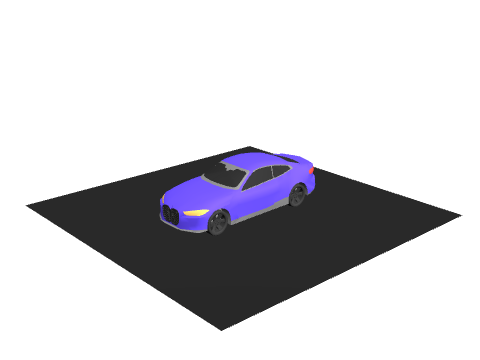
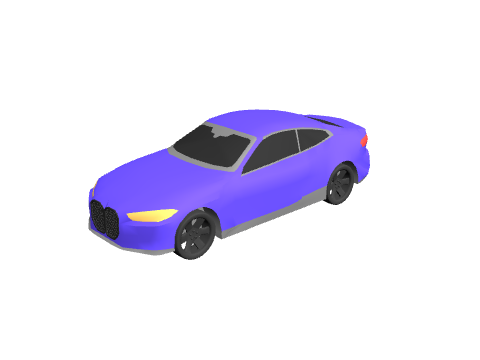
Big Q: remove the black display base from the BMW model
The sk-bmw-440i.glb shipped with a 'Plane' base platform. Detached that node
from the GLB (RootNode 6->5 children) + regenerated the thumbnail, and added a
per-model strip:['Plane'] guard in car3d.js loadModel. sw cache v28 -> v29.

Changed region(s): [[0.0625, 0.3056, 0.9688, 0.9167]]

diff --git a/public/car3d.js b/public/car3d.js
@@ -80,7 +80,7 @@ const MODEL_CFG = {
   'sk-e30.glb':        { normalize: true, sizeMul: 1.05, yaw: 90 },
   // Fleet — batch 4 (Sketchfab, CC-BY) — yaw verified via tools/inspect-car
   'sk-lambo-svj.glb':  { normalize: true, sizeMul: 1.1,  yaw: 0 },
-  'sk-bmw-440i.glb':   { normalize: true, sizeMul: 1.1,  yaw: 0 },
+  'sk-bmw-440i.glb':   { normalize: true, sizeMul: 1.1,  yaw: 0, strip: ['Plane'] },
 };
 const cfgOf = (f) => MODEL_CFG[f] || {};
 
@@ -279,6 +279,13 @@ function loadModel(file) {
       promise = new Promise((resolve, reject) => {
         loader.load(MODEL_DIR + file, (gltf) => {
           let out = gltf.scene;
+          // Strip display bases / platforms some Sketchfab models ship with,
+          // BEFORE normalize so they don't inflate the bounding box.
+          if (cfg.strip && cfg.strip.length) {
+            const rm = [];
+            out.traverse((o) => { const nm = o.name || ''; if (cfg.strip.some((s) => nm === s || nm.startsWith(s))) rm.push(o); });
+            rm.forEach((o) => { if (o.parent) o.parent.remove(o); });
+          }
           if (cfg.pitch || cfg.yaw) {
             const g = new THREE.Group();
             g.add(out);

diff --git a/public/sw.js b/public/sw.js
@@ -1,4 +1,4 @@
-const CACHE      = 'radar-v28';
+const CACHE      = 'radar-v29';
 const TILE_CACHE = 'radar-tiles-v1';
 const TILE_MAX   = 500;
 const STATIC = ['/', '/index.html', '/app.js', '/style.css', '/manifest.json', '/icon.svg', '/car3d.js', '/game.js', '/race.js'];
